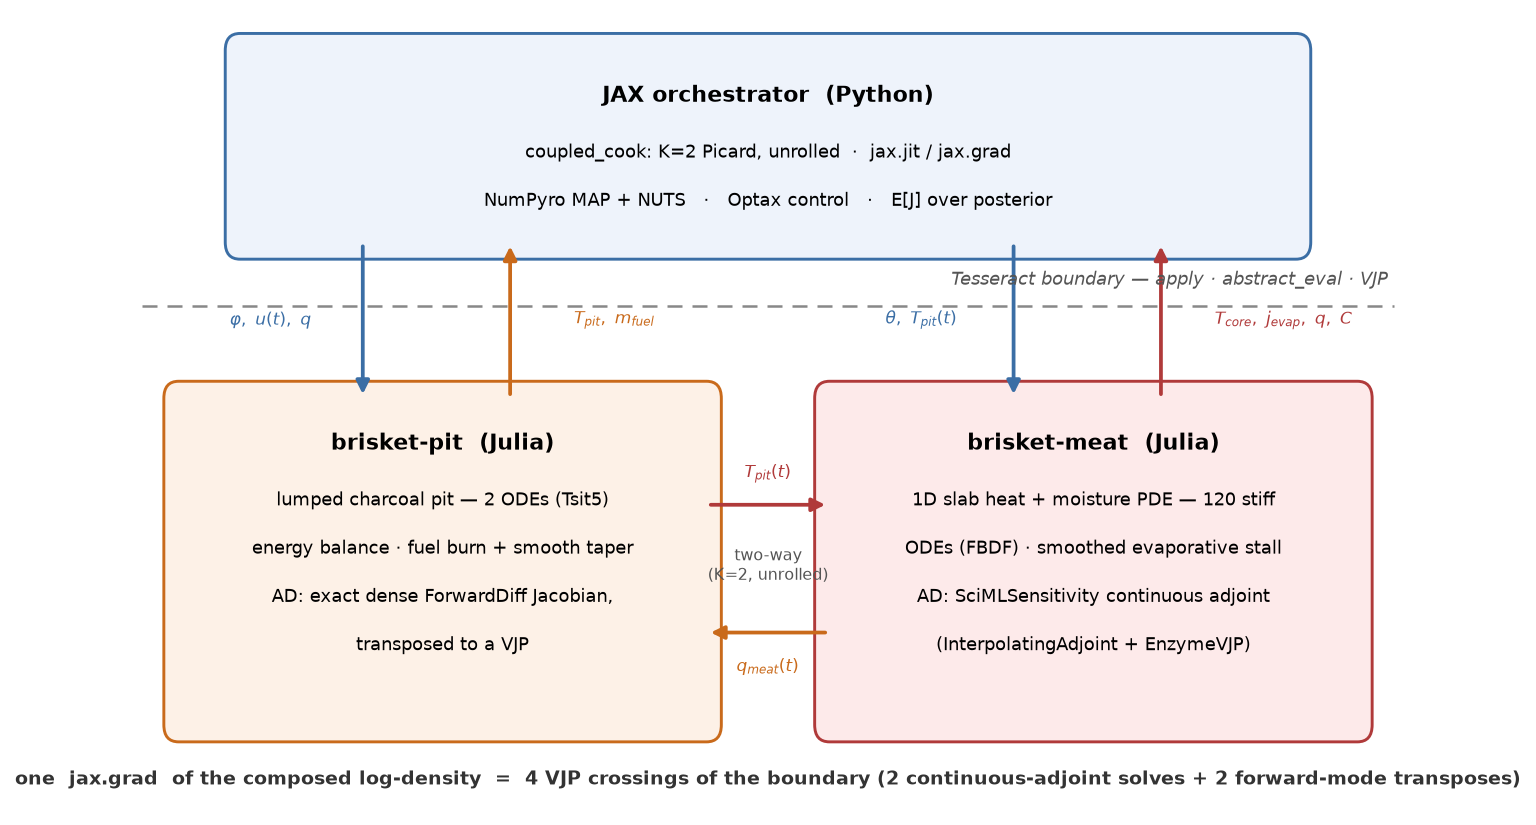
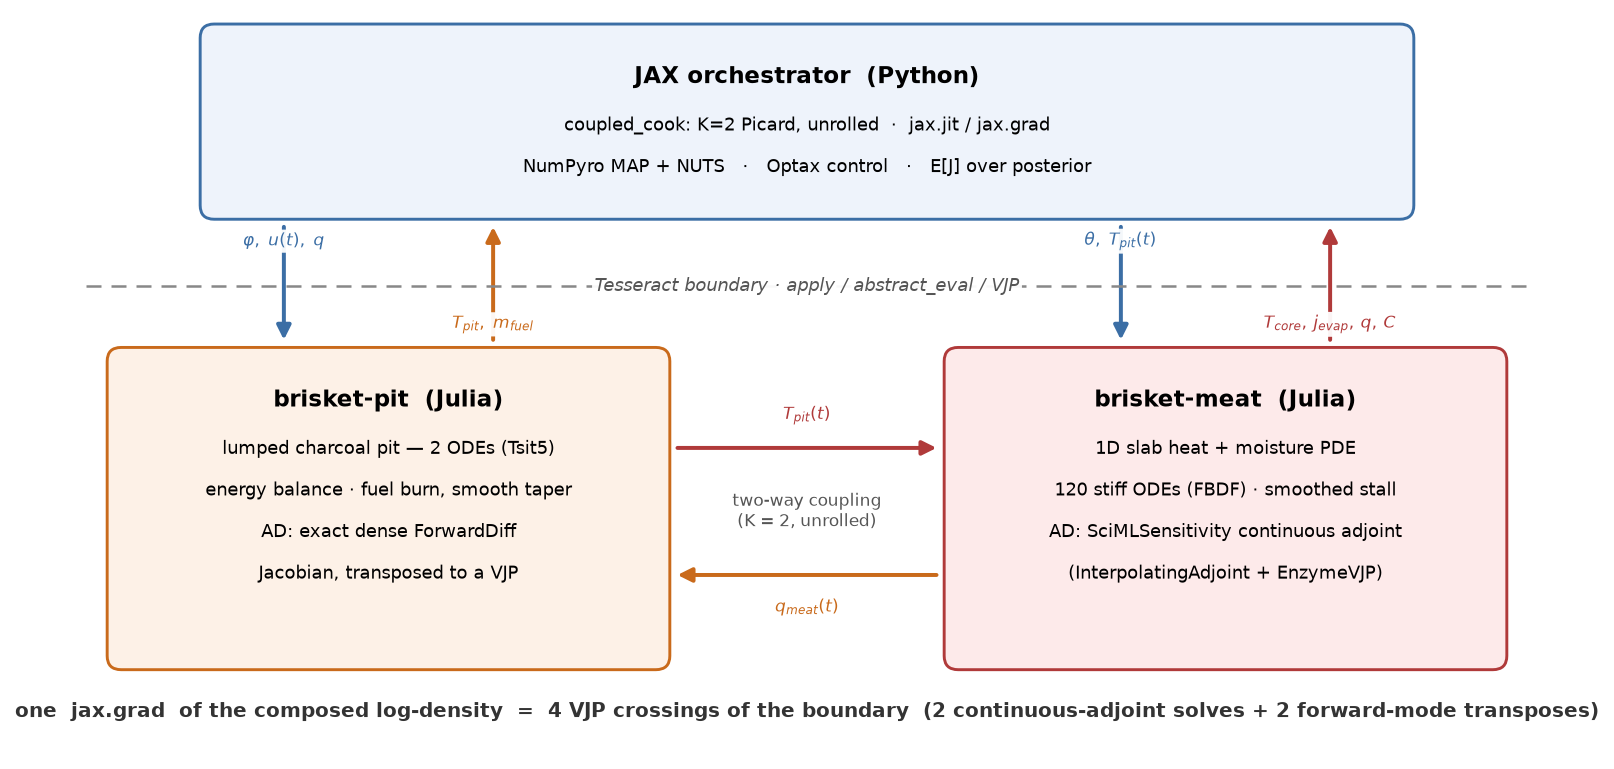
Diagram polish: arrows anchored to visible (padded) box edges, caption centered on boundary line

diff --git a/scripts/render_diagram.py b/scripts/render_diagram.py
@@ -15,79 +15,95 @@ from matplotlib.patches import FancyArrowPatch, FancyBboxPatch
 
 REPO = Path(__file__).resolve().parents[1]
 
-fig, ax = plt.subplots(figsize=(11, 5.6))
-ax.set_xlim(0, 11)
-ax.set_ylim(0, 5.6)
+fig, ax = plt.subplots(figsize=(13, 6.4))
+ax.set_xlim(0, 13)
+ax.set_ylim(0, 6.4)
 ax.axis("off")
 
 BOX = dict(boxstyle="round,pad=0.12", linewidth=1.4)
+WHITE = dict(boxstyle="round,pad=0.14", fc="white", ec="none", alpha=0.95)
 
 
-def box(x, y, w, h, fc, ec, title, lines, title_size=10.5, size=8.6):
+def box(x, y, w, h, fc, ec, title, lines, title_size=11, size=8.8):
     ax.add_patch(FancyBboxPatch((x, y), w, h, fc=fc, ec=ec, **BOX))
-    ax.text(x + w / 2, y + h - 0.32, title, ha="center", va="center",
+    ax.text(x + w / 2, y + h - 0.34, title, ha="center", va="center",
             fontsize=title_size, fontweight="bold")
     for i, ln in enumerate(lines):
-        ax.text(x + w / 2, y + h - 0.72 - 0.34 * i, ln, ha="center",
+        ax.text(x + w / 2, y + h - 0.76 - 0.36 * i, ln, ha="center",
                 va="center", fontsize=size)
 
 
-def arrow(p, q, color, label=None, lx=0, ly=0, style="-|>", lw=1.8, ls="-",
-          connstyle="arc3,rad=0.0", size=13):
-    ax.add_patch(FancyArrowPatch(p, q, arrowstyle=style, mutation_scale=size,
-                                 color=color, lw=lw, linestyle=ls,
-                                 connectionstyle=connstyle))
-    if label:
-        ax.text((p[0] + q[0]) / 2 + lx, (p[1] + q[1]) / 2 + ly, label,
-                ha="center", va="center", fontsize=8.2, color=color)
+def arrow(p, q, color, lw=1.9):
+    ax.add_patch(FancyArrowPatch(p, q, arrowstyle="-|>", mutation_scale=14,
+                                 color=color, lw=lw))
+
+
+def label(x, y, s, color, size=8.4):
+    ax.text(x, y, s, ha="center", va="center", fontsize=size, color=color,
+            bbox=WHITE)
 
 
 # ---- JAX orchestrator (top) ----
-box(1.2, 4.0, 8.6, 1.35, "#eef3fb", "#3b6ea5",
+box(1.4, 4.75, 10.2, 1.45, "#eef3fb", "#3b6ea5",
     "JAX orchestrator  (Python)",
     ["coupled_cook: K=2 Picard, unrolled  ·  jax.jit / jax.grad",
      "NumPyro MAP + NUTS   ·   Optax control   ·   E[J] over posterior"])
 
-# ---- boundary ----
-ax.plot([0.4, 10.6], [3.55, 3.55], ls=(0, (6, 4)), color="#888", lw=1.2)
-ax.text(10.55, 3.7, "Tesseract boundary — apply · abstract_eval · VJP",
-        ha="right", fontsize=8.6, color="#555", style="italic")
+# ---- boundary (labels sit clear of boxes and line) ----
+ax.plot([0.3, 12.7], [4.05, 4.05], ls=(0, (6, 4)), color="#888", lw=1.2)
+# centered in the arrow-free span between the pit-side and meat-side crossings
+ax.text(6.5, 4.05, "Tesseract boundary · apply / abstract_eval / VJP",
+        ha="center", va="center", fontsize=8.8, color="#555", style="italic",
+        bbox=WHITE)
 
 # ---- pit tesseract (left) ----
-box(0.7, 0.6, 4.3, 2.3, "#fdf1e7", "#c96a1b",
+box(0.6, 0.85, 4.6, 2.55, "#fdf1e7", "#c96a1b",
     "brisket-pit  (Julia)",
     ["lumped charcoal pit — 2 ODEs (Tsit5)",
-     "energy balance · fuel burn + smooth taper",
-     "AD: exact dense ForwardDiff Jacobian,",
-     "transposed to a VJP"])
+     "energy balance · fuel burn, smooth taper",
+     "AD: exact dense ForwardDiff",
+     "Jacobian, transposed to a VJP"])
 
 # ---- meat tesseract (right) ----
-box(6.0, 0.6, 4.3, 2.3, "#fdeaea", "#b03a3a",
+box(7.8, 0.85, 4.6, 2.55, "#fdeaea", "#b03a3a",
     "brisket-meat  (Julia)",
-    ["1D slab heat + moisture PDE — 120 stiff",
-     "ODEs (FBDF) · smoothed evaporative stall",
+    ["1D slab heat + moisture PDE",
+     "120 stiff ODEs (FBDF) · smoothed stall",
      "AD: SciMLSensitivity continuous adjoint",
      "(InterpolatingAdjoint + EnzymeVJP)"])
 
-# ---- coupling arrows (between tesseracts) ----
-arrow((5.0, 2.15), (6.0, 2.15), "#b03a3a", r"$T_{pit}(t)$", ly=0.22)
-arrow((6.0, 1.25), (5.0, 1.25), "#c96a1b", r"$q_{meat}(t)$", ly=-0.24)
-ax.text(5.5, 1.72, "two-way\n(K=2, unrolled)", ha="center", va="center",
-        fontsize=7.8, color="#555")
+# FancyBboxPatch pads its VISIBLE border 0.12 beyond the nominal rect;
+# connect arrows to the padded edge with a small clearance so heads/tails
+# touch the border instead of piercing it.
+PAD, CLR = 0.12, 0.03
+JAX_BOT = 4.75 - PAD - CLR      # visible bottom edge of the JAX box
+LOW_TOP = 3.40 + PAD + CLR      # visible top edge of the component boxes
+PIT_R = 5.20 + PAD + CLR        # visible right edge of pit box
+MEAT_L = 7.80 - PAD - CLR       # visible left edge of meat box
 
-# ---- downward (primal) and upward (cotangent) crossings ----
-arrow((2.2, 4.0), (2.2, 2.9), "#3b6ea5", r"$\varphi,\ u(t),\ q$", lx=-0.75)
-arrow((3.4, 2.9), (3.4, 4.0), "#c96a1b", r"$T_{pit},\ m_{fuel}$", lx=0.85)
-arrow((7.5, 4.0), (7.5, 2.9), "#3b6ea5", r"$\theta,\ T_{pit}(t)$", lx=-0.75)
-arrow((8.7, 2.9), (8.7, 4.0), "#b03a3a", r"$T_{core},\ j_{evap},\ q,\ C$", lx=1.0)
+# ---- coupling arrows (in the gap between the boxes) ----
+arrow((PIT_R, 2.65), (MEAT_L, 2.65), "#b03a3a")
+label(6.5, 2.93, r"$T_{pit}(t)$", "#b03a3a")
+arrow((MEAT_L, 1.55), (PIT_R, 1.55), "#c96a1b")
+label(6.5, 1.27, r"$q_{meat}(t)$", "#c96a1b")
+label(6.5, 2.1, "two-way coupling\n(K = 2, unrolled)", "#555", size=8.0)
 
-# ---- gradient annotation ----
-ax.text(5.5, 0.18,
-        "one  jax.grad  of the composed log-density  =  4 VJP crossings of the boundary "
-        "(2 continuous-adjoint solves + 2 forward-mode transposes)",
-        ha="center", fontsize=9.2, color="#333", fontweight="bold")
+# ---- boundary crossings: primal down (blue), outputs/cotangents up ----
+arrow((2.0, JAX_BOT), (2.0, LOW_TOP), "#3b6ea5")
+label(2.0, 4.44, r"$\varphi,\; u(t),\; q$", "#3b6ea5")
+arrow((3.8, LOW_TOP), (3.8, JAX_BOT), "#c96a1b")
+label(3.8, 3.72, r"$T_{pit},\; m_{fuel}$", "#c96a1b")
+arrow((9.2, JAX_BOT), (9.2, LOW_TOP), "#3b6ea5")
+label(9.2, 4.44, r"$\theta,\; T_{pit}(t)$", "#3b6ea5")
+arrow((11.0, LOW_TOP), (11.0, JAX_BOT), "#b03a3a")
+label(11.0, 3.72, r"$T_{core},\, j_{evap},\, q,\, C$", "#b03a3a")
 
-fig.tight_layout()
+# ---- gradient annotation (its own band at the bottom) ----
+ax.text(6.5, 0.32,
+        "one  jax.grad  of the composed log-density  =  4 VJP crossings of the "
+        "boundary  (2 continuous-adjoint solves + 2 forward-mode transposes)",
+        ha="center", fontsize=9.4, color="#333", fontweight="bold")
+
 out = REPO / "figures" / "composition_diagram.png"
 fig.savefig(out, dpi=150, bbox_inches="tight")
 print(f"wrote {out}")
